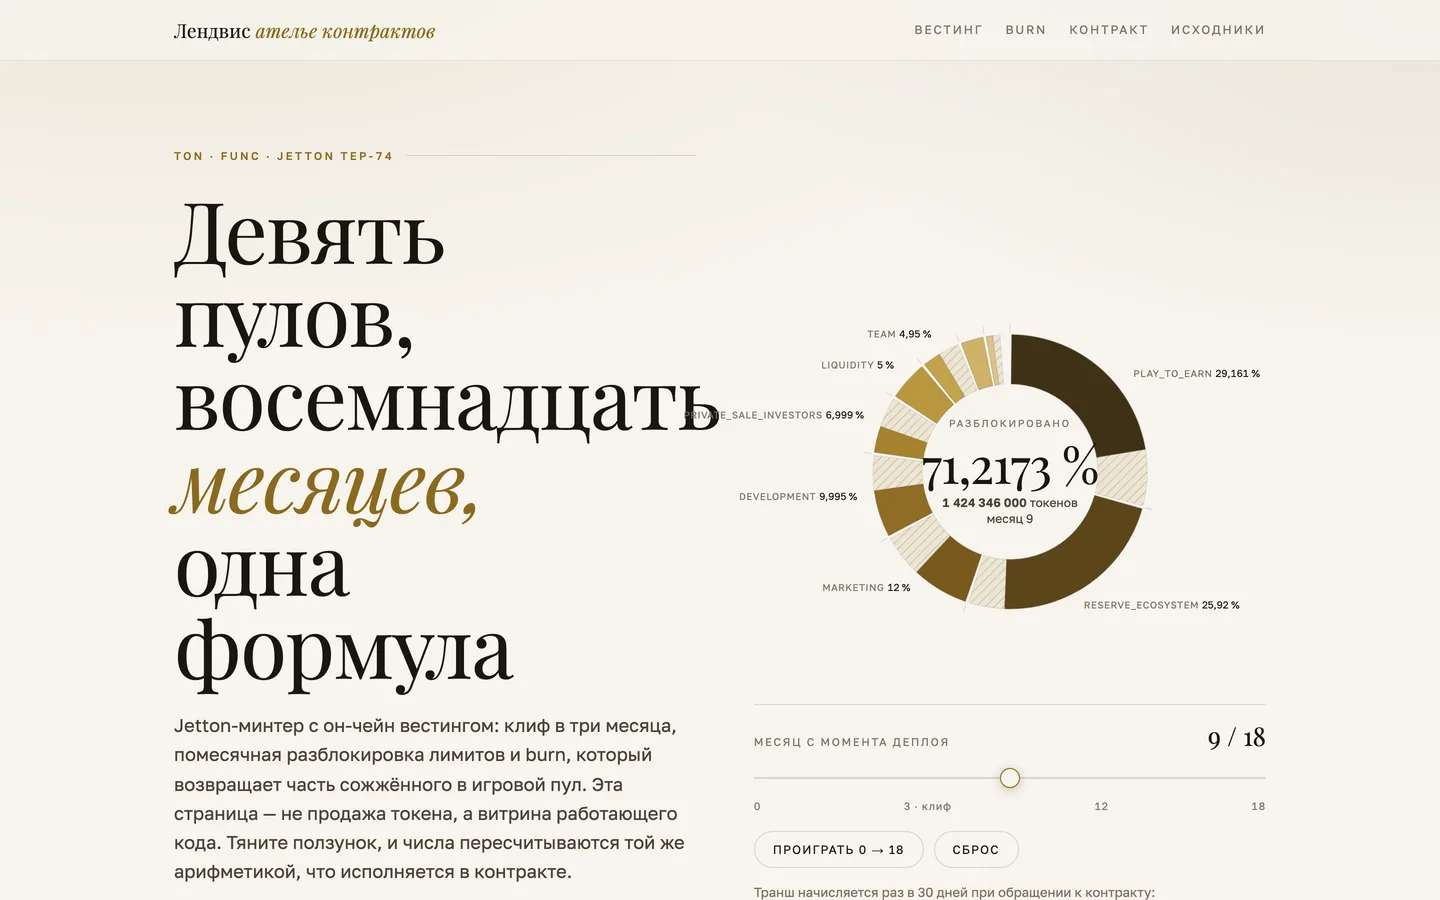
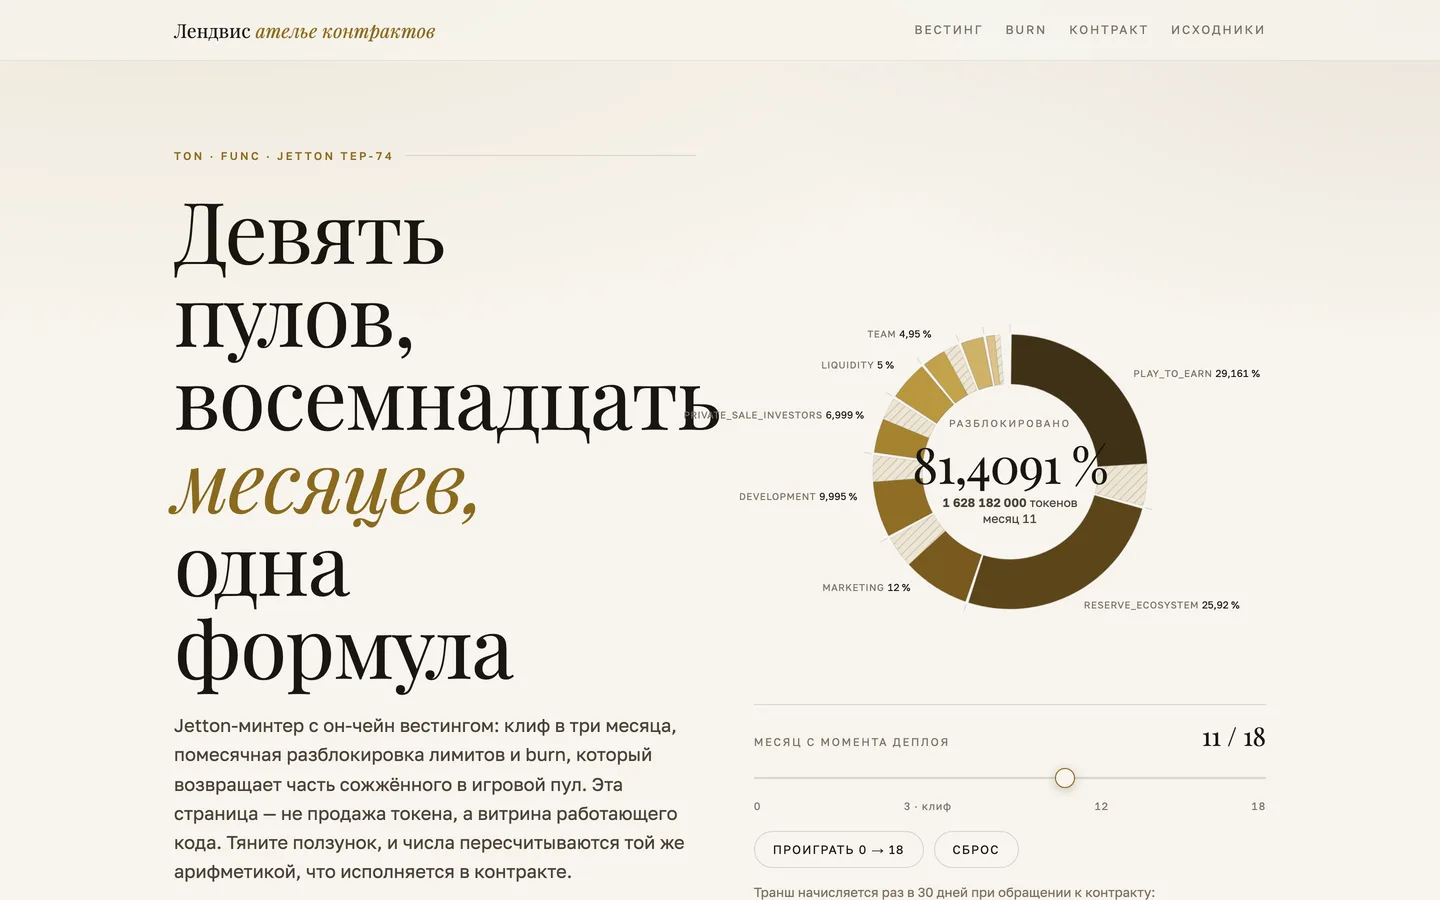
Use showcase screenshots on the TON project card

diff --git a/src/data.ts b/src/data.ts
@@ -45,7 +45,7 @@ export const projects: Project[] = [
     stack: ['FunC', 'TON', 'TypeScript', 'Jest'],
     repo: 'https://github.com/Olegg000/ton-jetton-vesting',
     demo: 'https://olegg000.github.io/ton-jetton-vesting/',
-    shots: [`${base}shots/ton-vesting.webp`, `${base}shots/blockchain.webp`],
+    shots: [`${base}shots/ton-vesting.webp`, `${base}shots/ton-pools.webp`, `${base}shots/ton-burn.webp`],
   },
   {
     n: '03',
